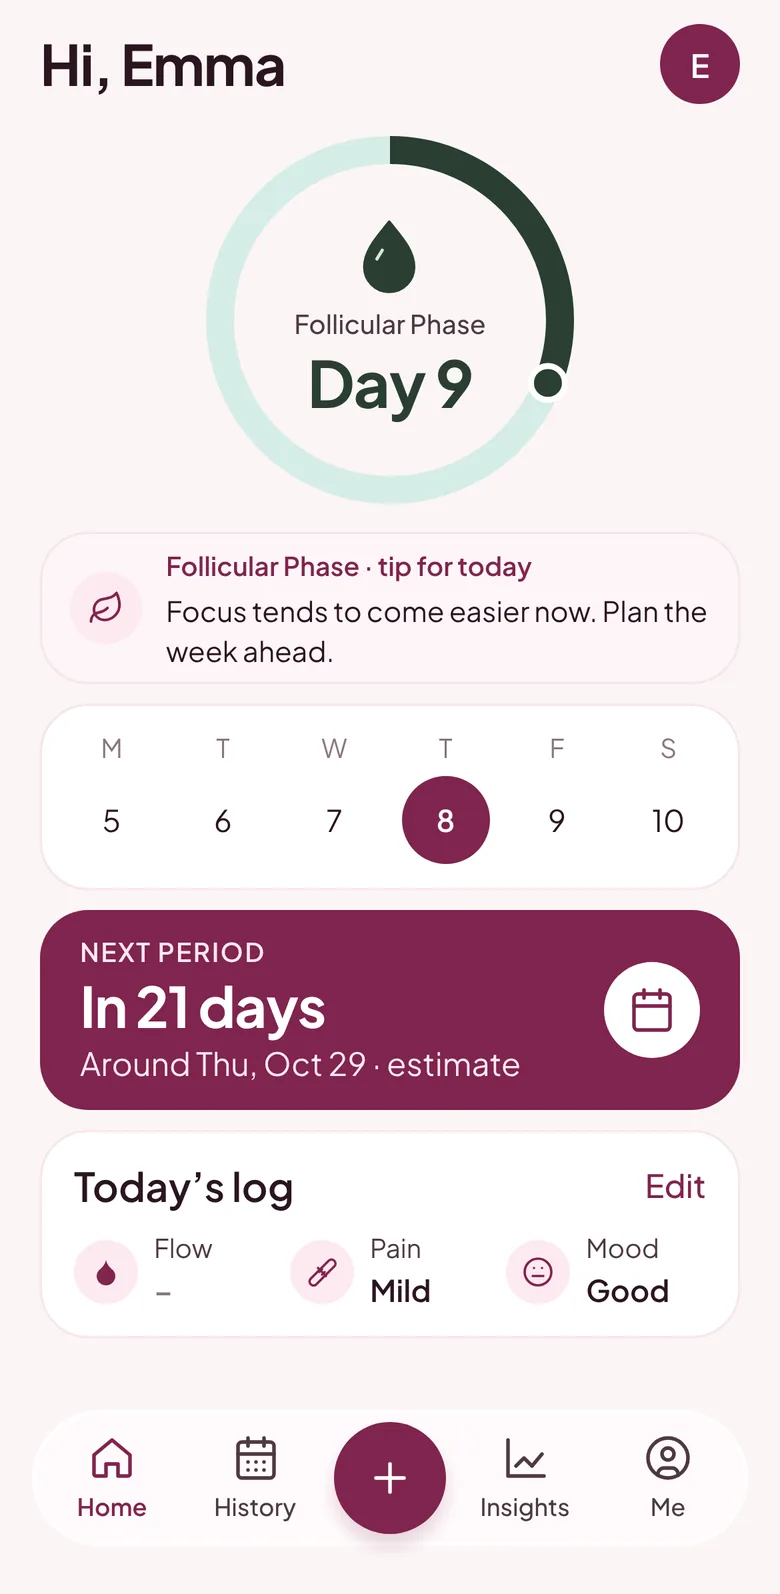
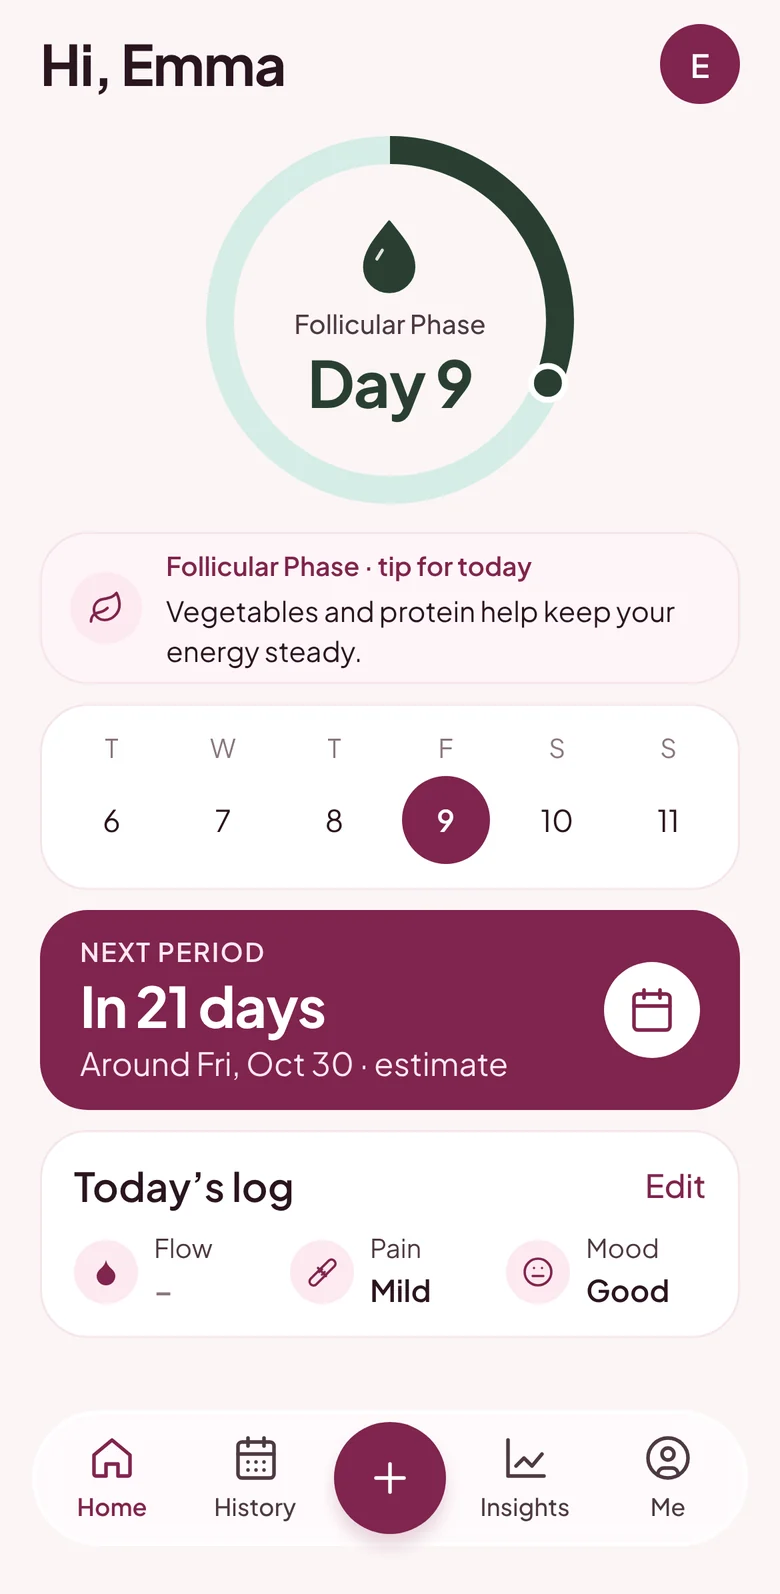
Site: plainer headline, fit the phone on short screens, cleaner screenshots
- Headline now reads "Döngünü istediğin gibi takip et." / "Track your cycle your way."
- Google Play button says "İndir" in Turkish, like the App Store one.
- On phones the mockup is sized from its row (container query units), so it no
  longer spills over the headline and store buttons on short screens.
- Re-took the screenshots; History and Insights fade the list out above the tab
  bar so text no longer shows through it.
- App Store notes: not an EU trader for now.

Claude-Session: https://claude.ai/code/session_019xn1Y1nCzVtD6w31Q5aLZi

diff --git a/site/index.html b/site/index.html
@@ -183,8 +183,10 @@
     .logo { width: clamp(96px, 26vw, 128px); }
     h1 { font-size: clamp(24px, 7vw, 32px); max-width: 16ch; }
     .lede, .facts { display: none; }
-    .stage { min-height: 0; align-content: center; }
-    .phone { --h: min(52vh, 560px); }
+    /* The phone takes whatever height its row has left (minus the dots), so it can never spill
+       over the headline or the store buttons, whatever the screen or how the headline wraps. */
+    .stage { min-height: 0; align-content: center; container-type: size; }
+    .phone { --h: min(52vh, 560px); --h: min(calc(100cqh - 30px), 560px, calc(100cqw * 844 / 390)); }
     .stores { justify-content: center; order: 3; padding-top: 16px; }
     .store { height: 48px; }
     .store b { font-size: 16px; }
@@ -192,10 +194,8 @@
   }
   @media (max-width: 760px) and (min-height: 760px) {
     .lede { display: block; text-align: center; font-size: 14px; }
-    .phone { --h: min(47vh, 560px); }
   }
   @media (max-width: 760px) and (max-height: 720px) {
-    .phone { --h: 44vh; }
     h1 { font-size: 24px; }
     .logo { width: 92px; }
   }
@@ -225,7 +225,7 @@
 </g>
 <path id="nilemy" d="M208.50 487.01C202.90 487.95 196.98 486.26 192.35 483.13C177.93 473.38 177.10 455.59 177.05 439.84C177.03 434.33 176.99 428.82 177.00 423.32C177.02 405.79 177.10 388.27 177.10 370.74C177.10 366.57 177.01 362.40 176.94 358.23C176.90 356.19 176.55 353.72 177.03 351.73C177.89 348.21 180.67 346.13 184.21 345.98C187.93 345.82 193.42 345.13 195.91 348.55C196.59 349.48 197.03 350.61 197.21 351.75C197.57 354.01 197.32 356.48 197.35 358.76C197.45 364.43 197.49 370.11 197.45 375.78C197.34 389.63 197.50 403.49 197.46 417.34C197.44 423.51 197.41 429.69 197.44 435.86C197.47 444.25 196.59 455.94 201.12 463.32C202.59 465.72 204.52 467.93 206.93 469.42C210.85 471.83 215.03 471.13 216.13 476.70C217.18 481.96 213.54 486.16 208.50 487.01Z M146.50 374.09C139.44 375.60 132.26 371.80 130.79 364.45C129.39 357.50 132.87 350.13 140.17 348.62C147.25 347.17 154.22 351.12 155.85 358.31C157.43 365.28 153.83 372.53 146.50 374.09Z M110.50 486.57C108.35 487.30 100.25 487.32 98.06 486.68C96.79 486.32 95.64 485.44 94.99 484.29C93.18 481.09 94.03 475.17 94.09 471.49C94.17 465.49 94.02 459.49 94.08 453.48C94.21 441.45 95.19 430.72 88.11 420.23C85.18 415.88 81.25 412.51 76.36 410.55C69.94 407.97 60.96 406.80 54.32 409.23C52.76 409.80 51.13 410.21 49.62 410.90C38.80 415.83 33.01 426.57 32.17 438.05C31.86 442.20 32.11 446.40 32.12 450.55C32.13 458.39 32.02 466.22 32.10 474.06C32.14 477.50 33.03 482.40 30.40 485.11C29.65 485.88 28.41 486.52 27.35 486.71C24.98 487.15 19.36 487.03 16.86 486.81C14.54 486.61 12.55 484.65 11.98 482.42C11.42 480.20 11.88 472.69 11.88 469.93C11.86 461.59 11.93 453.25 11.95 444.92C11.97 440.44 11.53 435.88 12.19 431.43C15.95 405.88 35.05 391.19 60.27 389.98C64.33 389.78 68.21 390.42 72.23 390.69C79.96 391.19 87.69 394.27 94.10 398.52C106.33 406.63 113.51 419.94 114.77 434.46C115.03 437.43 114.88 440.48 114.87 443.46C114.87 448.63 114.86 453.79 114.85 458.96C114.84 464.30 114.86 469.63 114.83 474.97C114.82 477.31 115.24 480.19 114.52 482.44C113.89 484.38 112.43 485.92 110.50 486.57Z M149.99 486.49C148.19 487.23 139.47 487.28 137.56 486.71C136.09 486.27 134.87 485.39 134.08 484.06C133.59 483.23 133.16 482.24 133.05 481.28C132.62 477.35 133.11 473.21 133.15 469.27C133.23 461.43 133.14 453.59 133.14 445.75C133.14 433.74 132.99 421.73 133.05 409.72C133.08 405.62 132.53 399.58 133.33 395.73C133.75 393.71 134.74 391.95 136.68 391.07C138.91 390.06 147.74 390.10 150.05 390.99C151.12 391.41 152.06 392.24 152.65 393.23C153.24 394.21 153.61 395.39 153.72 396.53C154.18 401.14 153.85 405.91 153.83 410.54C153.81 417.71 153.90 424.88 153.83 432.05C153.72 444.06 153.76 456.08 153.75 468.08C153.74 471.88 154.47 478.66 153.70 482.08C153.26 484.04 151.85 485.72 149.99 486.49Z M513.00 525.01C509.84 525.10 506.66 525.07 503.50 524.97C497.02 524.76 489.10 524.07 489.57 515.46C489.73 512.52 491.43 510.05 494.13 508.87C498.26 507.06 499.32 508.25 503.35 508.63C506.16 508.89 509.01 508.97 511.84 508.91C527.18 508.57 542.14 502.25 550.90 489.35C553.58 485.40 555.88 480.96 556.95 476.29C557.20 475.21 558.79 468.58 557.72 468.25C556.99 468.02 556.24 469.08 555.78 469.48C550.47 474.05 543.65 477.66 536.63 478.57C532.69 479.07 528.61 479.24 524.65 479.05C505.74 478.16 488.81 464.68 485.92 445.55C485.45 442.44 485.48 439.21 485.41 436.07C485.25 429.57 485.37 423.07 485.41 416.57C485.43 412.79 485.02 396.52 486.16 394.16C487.46 391.48 490.00 390.66 492.78 390.67C495.70 390.69 500.14 390.01 502.34 392.41C503.11 393.25 503.59 394.43 503.78 395.54C504.45 399.22 504.00 403.30 504.01 407.03C504.02 413.86 504.25 420.70 504.22 427.53C504.17 438.20 504.76 450.19 514.68 456.70C522.04 461.53 530.50 462.93 538.98 460.43C551.10 456.86 557.52 447.09 558.55 434.86C558.87 431.07 558.59 427.17 558.58 423.37C558.56 417.70 558.67 412.03 558.62 406.36C558.59 403.37 557.83 398.10 559.28 395.49C561.48 391.51 567.84 392.27 571.70 392.49C573.71 392.60 575.73 393.11 576.94 394.85C578.61 397.25 578.29 400.30 578.30 403.08C578.32 412.08 578.23 421.08 578.24 430.08C578.25 436.59 578.44 443.06 578.27 449.57C578.14 454.57 578.68 459.58 578.35 464.57C577.04 484.86 569.36 501.61 552.19 513.20C542.74 519.59 533.04 522.27 521.90 523.85C518.90 524.27 516.05 524.93 513.00 525.01Z M464.00 487.04C460.57 487.28 455.09 488.04 452.54 485.14C450.16 482.42 451.17 474.97 451.27 471.46C451.48 464.29 451.29 457.13 451.34 449.96C451.37 445.46 451.36 440.96 451.33 436.46C451.29 431.00 451.47 425.91 449.64 420.67C447.96 415.88 443.86 411.70 439.11 409.94C434.60 408.26 428.94 408.09 424.38 409.56C418.16 411.56 413.28 416.76 411.11 422.86C408.78 429.42 409.79 437.81 409.78 444.72C409.77 454.22 409.83 463.72 409.84 473.22C409.84 476.90 410.70 481.76 408.33 484.88C406.86 486.81 404.79 487.05 402.53 487.08C399.54 487.13 395.27 487.79 392.95 485.50C390.29 482.87 391.17 476.94 391.19 473.46C391.24 463.79 391.12 454.13 391.14 444.46C391.15 438.07 391.77 431.31 390.66 424.98C390.29 422.89 389.51 420.76 388.59 418.85C386.03 413.57 380.89 410.43 375.40 409.06C369.21 407.51 361.85 409.05 357.11 413.27C349.23 420.28 348.95 427.99 348.98 437.85C349.01 444.02 348.98 450.18 348.96 456.35C348.94 460.78 349.72 481.70 348.24 484.22C346.83 486.64 344.41 487.11 341.81 487.14C337.91 487.18 332.63 487.95 330.81 483.53C329.65 480.70 330.59 461.12 330.59 456.59C330.59 449.42 330.47 442.26 330.48 435.09C330.49 431.28 330.27 427.39 330.94 423.61C333.32 410.01 342.01 399.59 354.81 394.53C357.13 393.61 359.45 392.64 361.92 392.18C365.18 391.56 368.58 391.58 371.89 391.61C376.11 391.66 380.16 392.01 384.23 393.19C389.44 394.69 394.49 397.40 398.63 400.93C399.38 401.57 403.20 405.68 403.57 405.74C404.51 405.90 405.20 404.53 405.72 403.95C408.23 401.19 411.51 398.72 414.79 396.97C417.79 395.36 421.11 393.70 424.45 392.96C433.11 391.02 442.81 391.52 450.85 395.45C454.88 397.43 458.54 400.21 461.51 403.57C469.57 412.71 470.04 421.87 470.01 433.47C470.00 438.47 470.02 443.47 469.98 448.47C469.88 458.97 470.07 469.47 469.96 479.97C469.91 483.97 468.30 486.74 464.00 487.04Z M277.00 488.53C268.54 489.18 259.89 488.21 251.85 485.55C249.31 484.71 246.99 483.35 244.68 482.04C230.88 474.22 222.53 461.92 220.55 446.20C219.06 434.32 221.96 422.85 228.73 413.02C241.82 394.03 268.47 387.81 289.72 394.93C292.26 395.78 294.54 397.17 296.86 398.48C308.40 405.00 316.21 414.87 317.90 428.31C318.61 434.01 318.90 442.21 313.43 445.85C312.20 446.66 310.67 447.10 309.21 447.28C303.93 447.90 298.06 447.34 292.70 447.36C278.03 447.43 263.32 447.01 248.66 447.48C247.24 447.52 241.64 447.33 240.71 447.83C239.79 448.33 240.43 449.75 240.60 450.50C241.99 456.58 245.57 462.42 250.32 466.47C260.79 475.39 278.14 475.80 289.98 469.54C293.97 467.43 296.88 463.67 301.17 462.09C304.75 460.76 309.32 461.89 311.35 465.20C317.12 474.58 299.30 483.11 292.65 485.44C287.62 487.19 282.30 488.12 277.00 488.53Z M294.89 434.00C295.97 433.95 297.90 434.13 298.66 433.20C299.49 432.19 299.24 430.52 299.10 429.34C298.51 424.21 296.60 419.20 293.10 415.32C290.09 411.99 286.48 409.86 282.33 408.29C270.83 403.94 256.58 407.22 248.11 416.07C244.23 420.12 241.64 425.61 240.48 431.02C240.29 431.90 239.83 433.12 240.86 433.66C242.15 434.33 255.40 434.18 257.83 434.19C266.01 434.25 274.19 434.09 282.37 434.02C286.55 433.98 290.71 434.21 294.89 434.00Z" class="wordmark" fill-rule="evenodd"/>
 </svg>
-      <h1 data-i18n="title">Döngünü <em>kendi temponda</em> takip et.</h1>
+      <h1 data-i18n="title">Döngünü <em>istediğin gibi</em> takip et.</h1>
       <p class="lede" data-i18n="lede">Adetini saniyeler içinde kaydet, döngünde neler olduğunu gör ve önünü planla. Kayıtların sadece telefonunda, şifreli kalır.</p>
       <ul class="facts">
         <li data-i18n="f1">Hesap gerekmez</li>
@@ -241,7 +241,7 @@
       </a>
       <a class="store" href="#" aria-disabled="true" id="store-android">
         <svg viewBox="0 0 24 24" aria-hidden="true"><path d="M3.6 2.3c-.2.2-.3.6-.3 1v17.4c0 .4.1.8.3 1l9.7-9.7L3.6 2.3zm10.8 10.8 2.6 2.6-10.9 6.2c-.4.2-.8.3-1.1.2l9.4-9zm3.9-3.1 2.8 1.6c.8.5.8 1.2 0 1.7l-2.8 1.6-2.9-2.9 2.9-2zM5.4 2.1l10.9 6.2-2.6 2.6-9.4-9c.3 0 .7 0 1.1.2z"/></svg>
-        <span><small data-i18n="playSmall">Google Play’den</small><b data-i18n="playBig">Edin</b></span>
+        <span><small data-i18n="playSmall">Google Play’den</small><b data-i18n="playBig">İndir</b></span>
         <i class="soon" data-i18n="soon">Yakında</i>
       </a>
     </div>
@@ -262,16 +262,16 @@
   // Copy for both languages; the page follows the browser until a language is picked.
   const COPY = {
     tr: {
-      title: 'Döngünü <em>kendi temponda</em> takip et.',
+      title: 'Döngünü <em>istediğin gibi</em> takip et.',
       lede: 'Adetini saniyeler içinde kaydet, döngünde neler olduğunu gör ve önünü planla. Kayıtların sadece telefonunda, şifreli kalır.',
       f1: 'Hesap gerekmez', f2: 'Reklam yok', f3: 'Türkçe ve İngilizce',
-      iosSmall: 'App Store’dan', iosBig: 'İndir', playSmall: 'Google Play’den', playBig: 'Edin', soon: 'Yakında',
+      iosSmall: 'App Store’dan', iosBig: 'İndir', playSmall: 'Google Play’den', playBig: 'İndir', soon: 'Yakında',
       foot: 'Nilemy tıbbi bir cihaz değildir · Doğum kontrolü için kullanılmaz',
       privacy: 'Gizlilik', support: 'Destek',
       screens: ['Ana sayfa', 'Geçmiş', 'Analiz', 'Günlük kayıt'],
     },
     en: {
-      title: 'Track your cycle <em>at your own pace.</em>',
+      title: 'Track your cycle <em>your way.</em>',
       lede: 'Log your period in seconds, see what your cycle is doing and plan ahead. Your logs stay on your phone, encrypted.',
       f1: 'No account needed', f2: 'No ads', f3: 'English and Turkish',
       iosSmall: 'Download on the', iosBig: 'App Store', playSmall: 'Get it on', playBig: 'Google Play', soon: 'Soon',

diff --git a/docs/app-store.md b/docs/app-store.md
@@ -106,7 +106,7 @@ Nilemy has no accounts and no server: there is nothing to sign in to and no demo
 - **App Privacy:** Data Not Collected.
 - **Age rating:** No to everything except "Medical/Treatment Information": Infrequent/Mild (the app shows general wellbeing tips and cycle estimates).
 - **Export compliance (encryption):** The app uses standard encryption (AES-256-GCM) only to protect the user's own data on the device. Answer the questions together when App Store Connect asks; don't guess.
-- **EU (DSA) trader status:** decision pending (trader / not a trader / leave out EU).
+- **EU (DSA) trader status:** not a trader for now (the app is free and earns nothing). Switch to trader before monetising in phase 2.
 
 ## Screenshots
 
